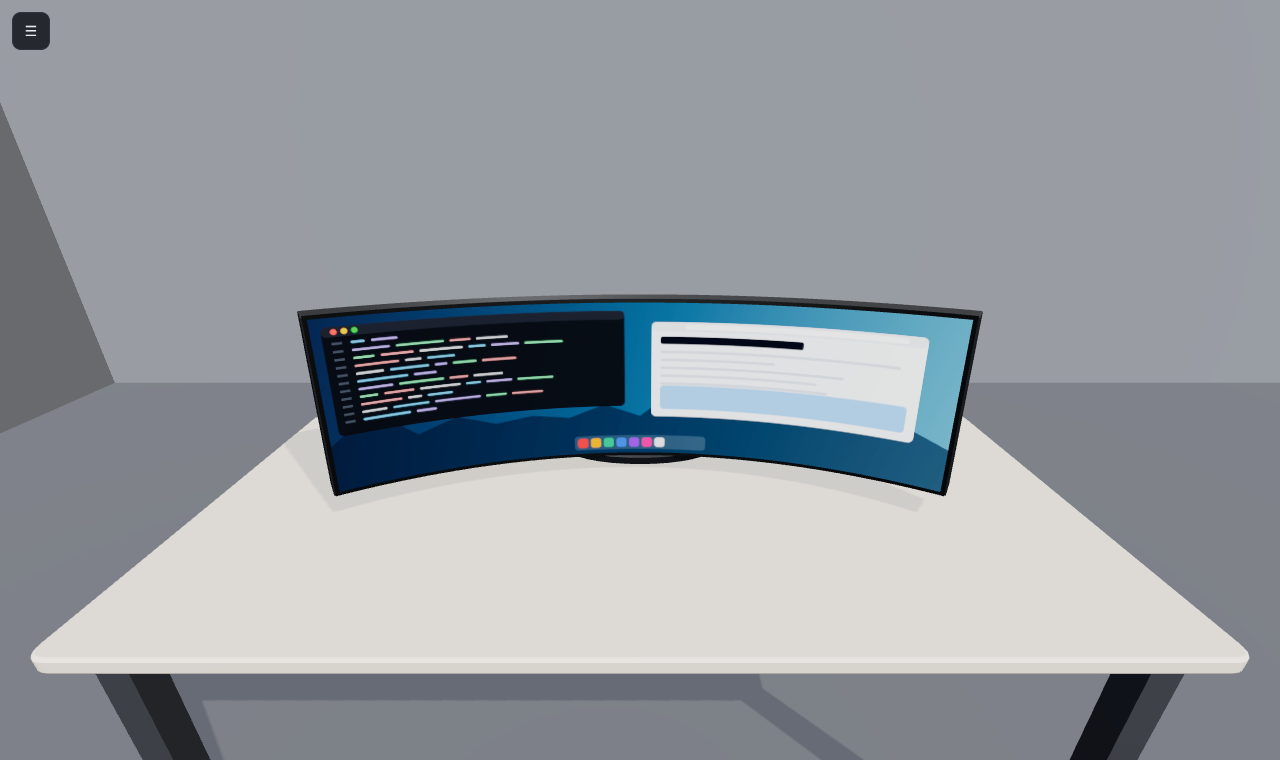
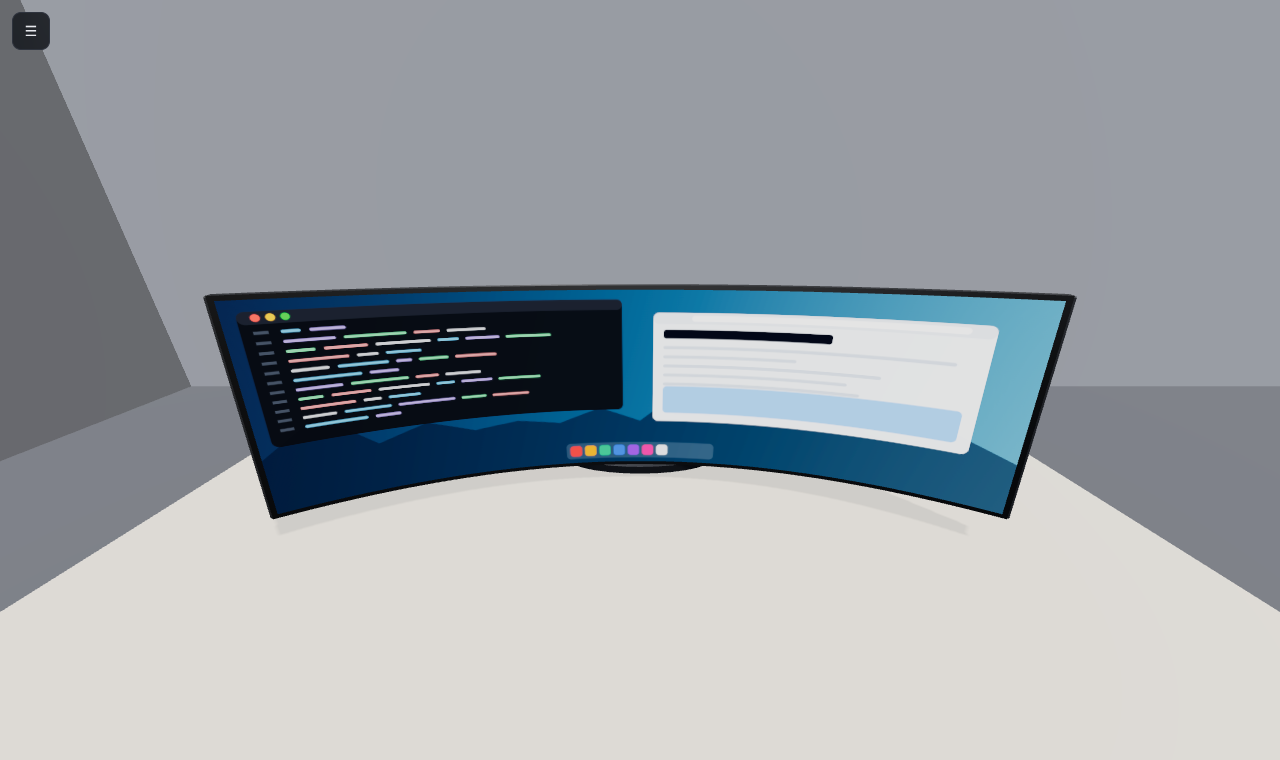
Render eye level at a human field of view, thin the panel to 1 inch
The eye-level view previously widened the lens and stepped back until the
whole panel fitted, which made every monitor look about the same size from
the seat. It now stays at the eye position and renders the ~114 degree
horizontal span both eyes take in at once, so a panel that overflows the
frame is one that genuinely overflows your vision. The vertical FOV is
solved from the window shape (and the control panel's frustum offset) and
re-solved on resize. The horizontal FOV readout gained the matching share
of that field.

Panel thickness drops from 52 mm to 1 inch, which is where most current
monitors sit. A shallow housing behind the middle of the panel carries the
electronics, and the stand's arm now reaches that housing instead of
poking through the thinner body.

Claude-Session: https://claude.ai/code/session_01G5Lduys5GoZ1mH9CnJ7khr

Changed region(s): [[0.0, 0.0, 1.0, 1.0]]

diff --git a/src/main.js b/src/main.js
@@ -4,7 +4,7 @@ import * as THREE from 'three';
 import { OrbitControls } from 'three/addons/controls/OrbitControls.js';
 import { RoomEnvironment } from 'three/addons/environments/RoomEnvironment.js';
 
-import { state, decodeHash, screenPoint } from './config.js';
+import { state, decodeHash, HUMAN_HFOV } from './config.js';
 import { buildRoom, Desk } from './room.js';
 import { Monitor } from './monitor.js';
 import { Person } from './person.js';
@@ -88,6 +88,8 @@ function updatePersonVisibility() {
   person.group.visible = state.showPerson && currentView !== 'eye';
 }
 
+let lastInfo = null;
+
 function rebuild() {
   const deskTop = state.deskHeight / 100;
   const deskDepth = state.deskDepth / 100;
@@ -110,16 +112,6 @@ function rebuild() {
   const bottomY = centre.y - Math.cos(THREE.MathUtils.degToRad(state.tilt)) * (m.height / 2);
 
   const eye = new THREE.Vector3(0, eyeY, eyeZ);
-
-  // bounding sphere of the visible panel, used to frame the camera
-  const corners = [];
-  for (const u of [-0.5, -0.25, 0, 0.25, 0.5]) {
-    const p = screenPoint(u, m);
-    for (const y of [-m.height / 2, m.height / 2]) {
-      corners.push(monitor.panelPivot.localToWorld(new THREE.Vector3(p.x, y, p.z)));
-    }
-  }
-  const screenSphere = new THREE.Sphere().setFromPoints(corners);
   guides.setVisible(state.guides);
   if (state.guides) guides.update(eye, monitor.panelPivot, m);
 
@@ -137,7 +129,41 @@ function rebuild() {
   });
   syncHash();
 
-  return { m, centre, eye, deskTop, screenSphere };
+  lastInfo = { m, centre, eye, deskTop };
+  return lastInfo;
+}
+
+// The eye-level view renders the human binocular span (HUMAN_HFOV), so the
+// monitor covers the same share of the frame as it would of your vision. Any
+// flat projection stretches the outer edges; that is the projection, not the
+// geometry. The vertical cap keeps tall, narrow windows from exploding.
+const HUMAN_VFOV_MAX = 118;
+
+/**
+ * Vertical camera FOV that makes the *visible* part of the canvas span
+ * `targetH` degrees horizontally, accounting for the control panel offset.
+ */
+function verticalFovForHorizontal(targetH) {
+  const w = window.innerWidth;
+  const h = window.innerHeight;
+  const off = camera.view?.enabled ? camera.view.fullWidth - camera.view.width : 0;
+  const target = THREE.MathUtils.degToRad(targetH);
+
+  // horizontal angle covered by the canvas, given a vertical FOV
+  const span = (v) => {
+    const halfTan = Math.tan(v / 2) * ((w + off) / h);
+    const right = halfTan * (2 * w / (w + off) - 1);
+    return Math.atan(right) + Math.atan(halfTan);
+  };
+
+  let lo = THREE.MathUtils.degToRad(20);
+  let hi = THREE.MathUtils.degToRad(HUMAN_VFOV_MAX);
+  if (span(hi) <= target) return HUMAN_VFOV_MAX;
+  for (let i = 0; i < 26; i++) {
+    const mid = (lo + hi) / 2;
+    if (span(mid) < target) lo = mid; else hi = mid;
+  }
+  return THREE.MathUtils.radToDeg((lo + hi) / 2);
 }
 
 /** Camera distance that frames a sphere of the given radius at the current aspect. */
@@ -170,25 +196,20 @@ function applyView(view, info) {
     controls.target.copy(target);
   };
 
+  const hint = document.getElementById('view-hint');
+  hint.hidden = view !== 'eye';
+  hint.textContent = view === 'eye'
+    ? `Rendered with a ${HUMAN_HFOV}° horizontal field of view, matching what both eyes take in at once.`
+    : '';
+
   switch (view) {
     case 'eye': {
-      // Sit in the person's seat. If the panel is too wide to take in from there,
-      // widen the lens up to a natural limit and then step straight back.
-      const sphere = info.screenSphere;
-      const dir = sphere.center.clone().sub(eye).normalize();
-      const distEye = Math.max(0.15, eye.distanceTo(sphere.center));
-      const needed = 2 * Math.asin(THREE.MathUtils.clamp(sphere.radius / distEye, 0, 0.985));
-      const limit = THREE.MathUtils.degToRad(70);
-
-      if (needed <= limit) {
-        camera.fov = Math.max(32, THREE.MathUtils.radToDeg(needed));
-        camera.position.copy(eye);
-      } else {
-        camera.fov = 70;
-        const back = sphere.radius / Math.sin(limit / 2);
-        camera.position.copy(sphere.center).addScaledVector(dir, -back);
-      }
+      // Sit in the person's seat and look at the screen with a human field of
+      // view: no stepping back, so a panel that overflows the frame is a panel
+      // that genuinely overflows your vision.
+      camera.fov = verticalFovForHorizontal(HUMAN_HFOV);
       camera.updateProjectionMatrix();
+      camera.position.copy(eye);
       controls.target.set(0, centre.y, centre.z);
       break;
     }
@@ -253,6 +274,9 @@ function resize() {
   else camera.clearViewOffset();
 
   camera.updateProjectionMatrix();
+
+  // the eye view's FOV depends on the window shape, so re-solve it
+  if (currentView === 'eye' && lastInfo) applyView('eye', lastInfo);
 }
 window.addEventListener('resize', resize);
 resize();

diff --git a/src/monitor.js b/src/monitor.js
@@ -3,8 +3,10 @@
 import * as THREE from 'three';
 import { screenMetrics, screenPoint } from './config.js';
 import { makeScreenTexture } from './screenTexture.js';
+import { roundedBox } from './geometry.js';
 
-const CHASSIS_DEPTH = 0.052;  // front-to-back thickness of the panel body
+const CHASSIS_DEPTH = 0.0254; // panel thickness: 1 inch, in line with current slim monitors
+const HOUSING_DEPTH = 0.026;  // the electronics bulge behind the middle of the panel
 const CHASSIS_BEVEL = 0.0025; // rounded lip around the chassis; the extrusion bulges forward by this much
 const BEZEL_LIFT = CHASSIS_BEVEL + 0.0015;   // bezel face sits just proud of the chassis
 const SCREEN_LIFT = BEZEL_LIFT + 0.0012;     // active screen sits just proud of the bezel
@@ -12,6 +14,7 @@ const SCREEN_LIFT = BEZEL_LIFT + 0.0012;     // active screen sits just proud of
 const bodyMaterial = new THREE.MeshStandardMaterial({ color: 0x23262b, roughness: 0.55, metalness: 0.25 });
 const bezelMaterial = new THREE.MeshStandardMaterial({ color: 0x121417, roughness: 0.42, metalness: 0.1 });
 const standMaterial = new THREE.MeshStandardMaterial({ color: 0x2b2f36, roughness: 0.4, metalness: 0.6 });
+const housingMaterial = new THREE.MeshStandardMaterial({ color: 0x1d2025, roughness: 0.6, metalness: 0.2 });
 
 /**
  * Horizontal cross-section of the panel as a THREE.Shape.
@@ -134,13 +137,27 @@ export class Monitor {
     this.disposables.push(screenGeo, screenMat, texture);
     this.panelPivot.add(screen);
 
+    // ---- rear housing --------------------------------------------------
+    // A 1 inch panel needs somewhere to put the electronics, so slim monitors
+    // carry a shallow raised block across the middle of the back.
+    const housingW = Math.min(m.width * 0.55, 0.42);
+    const housingH = Math.min(m.height * 0.62, 0.24);
+    const housingGeo = roundedBox(housingW, housingH, HOUSING_DEPTH, 0.02, 0.006);
+    const housing = new THREE.Mesh(housingGeo, housingMaterial);
+    housing.position.set(0, 0, -CHASSIS_DEPTH - HOUSING_DEPTH / 2 + 0.004);
+    housing.castShadow = true;
+    this.disposables.push(housingGeo);
+    this.panelPivot.add(housing);
+
     // ---- stand ---------------------------------------------------------
+    const columnZ = -CHASSIS_DEPTH - HOUSING_DEPTH - 0.028;
+
     const baseW = THREE.MathUtils.clamp(m.width * 0.28, 0.16, 0.34);
     const baseD = THREE.MathUtils.clamp(m.height * 0.42, 0.13, 0.24);
     const baseGeo = new THREE.CylinderGeometry(baseW / 2, baseW / 2, 0.016, 32);
     baseGeo.scale(1, 1, baseD / baseW);
     const base = new THREE.Mesh(baseGeo, standMaterial);
-    base.position.set(0, 0.008, -CHASSIS_DEPTH - 0.03);
+    base.position.set(0, 0.008, columnZ);
     base.castShadow = true;
     base.receiveShadow = true;
     this.disposables.push(baseGeo);
@@ -149,14 +166,17 @@ export class Monitor {
     const neckH = Math.max(0.04, riser + m.height * 0.35);
     const neckGeo = new THREE.BoxGeometry(0.075, neckH, 0.03);
     const neck = new THREE.Mesh(neckGeo, standMaterial);
-    neck.position.set(0, neckH / 2, -CHASSIS_DEPTH - 0.03);
+    neck.position.set(0, neckH / 2, columnZ);
     neck.castShadow = true;
     this.disposables.push(neckGeo);
     this.stand.add(neck);
 
-    const armGeo = new THREE.BoxGeometry(0.075, 0.05, 0.032 + CHASSIS_DEPTH * 0.6);
+    // bridges the column to the back of the panel; its front end hides inside the body
+    const armBack = columnZ - 0.02;
+    const armFront = -CHASSIS_DEPTH * 0.4;
+    const armGeo = new THREE.BoxGeometry(0.075, 0.05, armFront - armBack);
     const arm = new THREE.Mesh(armGeo, standMaterial);
-    arm.position.set(0, riser + m.height * 0.35, -CHASSIS_DEPTH * 0.7);
+    arm.position.set(0, riser + m.height * 0.35, (armFront + armBack) / 2);
     arm.castShadow = true;
     this.disposables.push(armGeo);
     this.stand.add(arm);

diff --git a/src/ui.js b/src/ui.js
@@ -1,6 +1,6 @@
 // DOM wiring: reads the controls into `state`, writes the derived numbers back out.
 
-import { state, DEFAULTS, PRESETS, screenMetrics, resolutionOf, matchPreset, encodeHash } from './config.js';
+import { state, DEFAULTS, PRESETS, screenMetrics, resolutionOf, matchPreset, encodeHash, HUMAN_HFOV } from './config.js';
 
 const $ = (id) => document.getElementById(id);
 
@@ -85,7 +85,7 @@ export function refreshStats(scene) {
   $('st-wrap').textContent = state.curved
     ? `${(m.wrap * 180 / Math.PI).toFixed(1)}° · ${state.curve}R`
     : 'flat panel';
-  $('st-hfov').textContent = `${fov.h.toFixed(1)}°`;
+  $('st-hfov').textContent = `${fov.h.toFixed(1)}° · ${Math.round((fov.h / HUMAN_HFOV) * 100)}% of vision`;
   $('st-vfov').textContent = `${fov.v.toFixed(1)}°`;
 
   const delta = scene.eyeY - scene.screenTopY;

diff --git a/styles.css b/styles.css
@@ -68,7 +68,8 @@ html, body {
   gap: 8px; margin-bottom: 5px; font-size: 13px;
 }
 .field output { color: var(--accent); font-variant-numeric: tabular-nums; font-size: 12.5px; }
-.field .hint { display: block; margin-top: 5px; color: var(--muted); font-size: 11.5px; line-height: 1.35; }
+.field .hint, p.hint { display: block; margin: 5px 0 0; color: var(--muted); font-size: 11.5px; line-height: 1.35; }
+p.hint { margin-bottom: 12px; }
 
 .field.checkbox {
   display: flex; align-items: center; gap: 9px; font-size: 13px; margin-bottom: 10px; cursor: pointer;

diff --git a/src/config.js b/src/config.js
@@ -2,6 +2,11 @@
 
 export const IN_TO_M = 0.0254;
 
+// Roughly the horizontal span both eyes take in at once. The full field of a
+// single eye is wider, but this binocular overlap is what reads as "what you
+// see", and it is what the eye-level view renders.
+export const HUMAN_HFOV = 114;
+
 export const DEFAULTS = {
   diagonal: 27,        // inches, measured flat/diagonally across the panel
   aspect: '16:9',

diff --git a/index.html b/index.html
@@ -143,6 +143,7 @@
           <button type="button" data-view="side">Side</button>
           <button type="button" data-view="top">Top</button>
         </div>
+        <p class="hint" id="view-hint" hidden></p>
 
         <label class="field">
           <span class="label">On screen</span>

diff --git a/README.md b/README.md
@@ -8,7 +8,8 @@ Orbit around it, or drop into the seat and see what the panel actually covers fr
 
 ![overview](docs/preview-orbit.png)
 
-From the seat, with a 49″ 32:9 at 1000R:
+From the seat, with a 49″ 32:9 at 1000R — rendered at a 114° horizontal field of
+view, so the panel covers the same share of the frame as it would of your vision:
 
 ![eye level](docs/preview-eye.png)
 
@@ -34,7 +35,7 @@ root as-is.
 | Aspect ratio | 4:3 through 32:9 |
 | Curvature | flat, or a radius from 500R (extreme) to 4000R (gentle) |
 | Resolution | drives the pixel-density readout |
-| Bezel | 0–25 mm border around the active area |
+| Bezel | 0–25 mm border around the active area (the panel itself is modelled 1″ thick) |
 | Placement | height above the desk, tilt, desk height and depth |
 | Person | standing height 140–210 cm, eye-to-screen distance |
 | View | orbit, eye level, front, side, top |
@@ -52,6 +53,9 @@ hash, so **Copy shareable link** produces a link that restores the exact setup.
   radians and its edges sit `R(1 − cos(θ/2))` closer to you than its centre.
 * **Field of view** — the angle the panel subtends from the seated eye position,
   measured to the real edge positions, so the curve's forward wrap is included.
+  It is also reported as a share of the ~114° both eyes take in at once, which is
+  the field the eye-level view renders: the camera stays at the eye, so a panel
+  that overflows the frame is one that genuinely overflows your vision.
 * **Pixel density** — pixels per inch across the flat diagonal, plus the dot pitch.
 * **Eye vs. screen top** — how far the seated eye line falls above or below the top
   edge, the number that usually decides whether a monitor is mounted too low.
